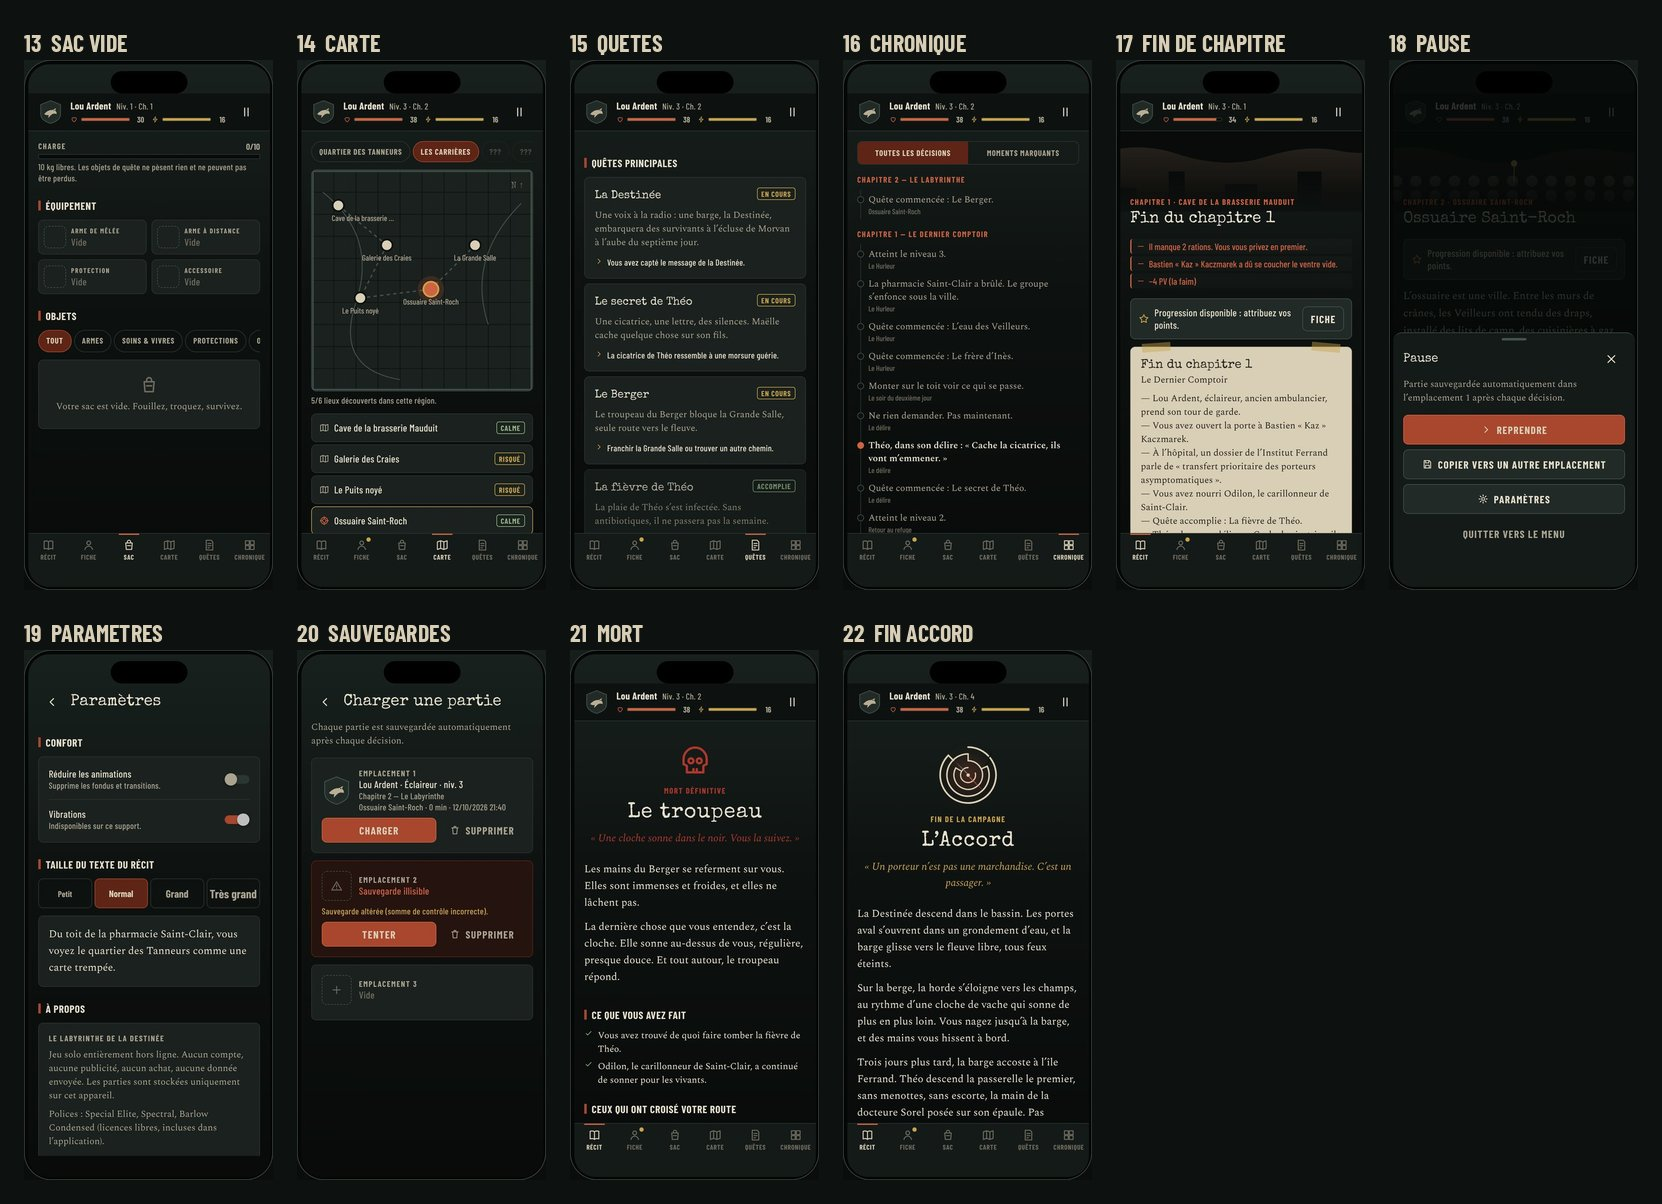
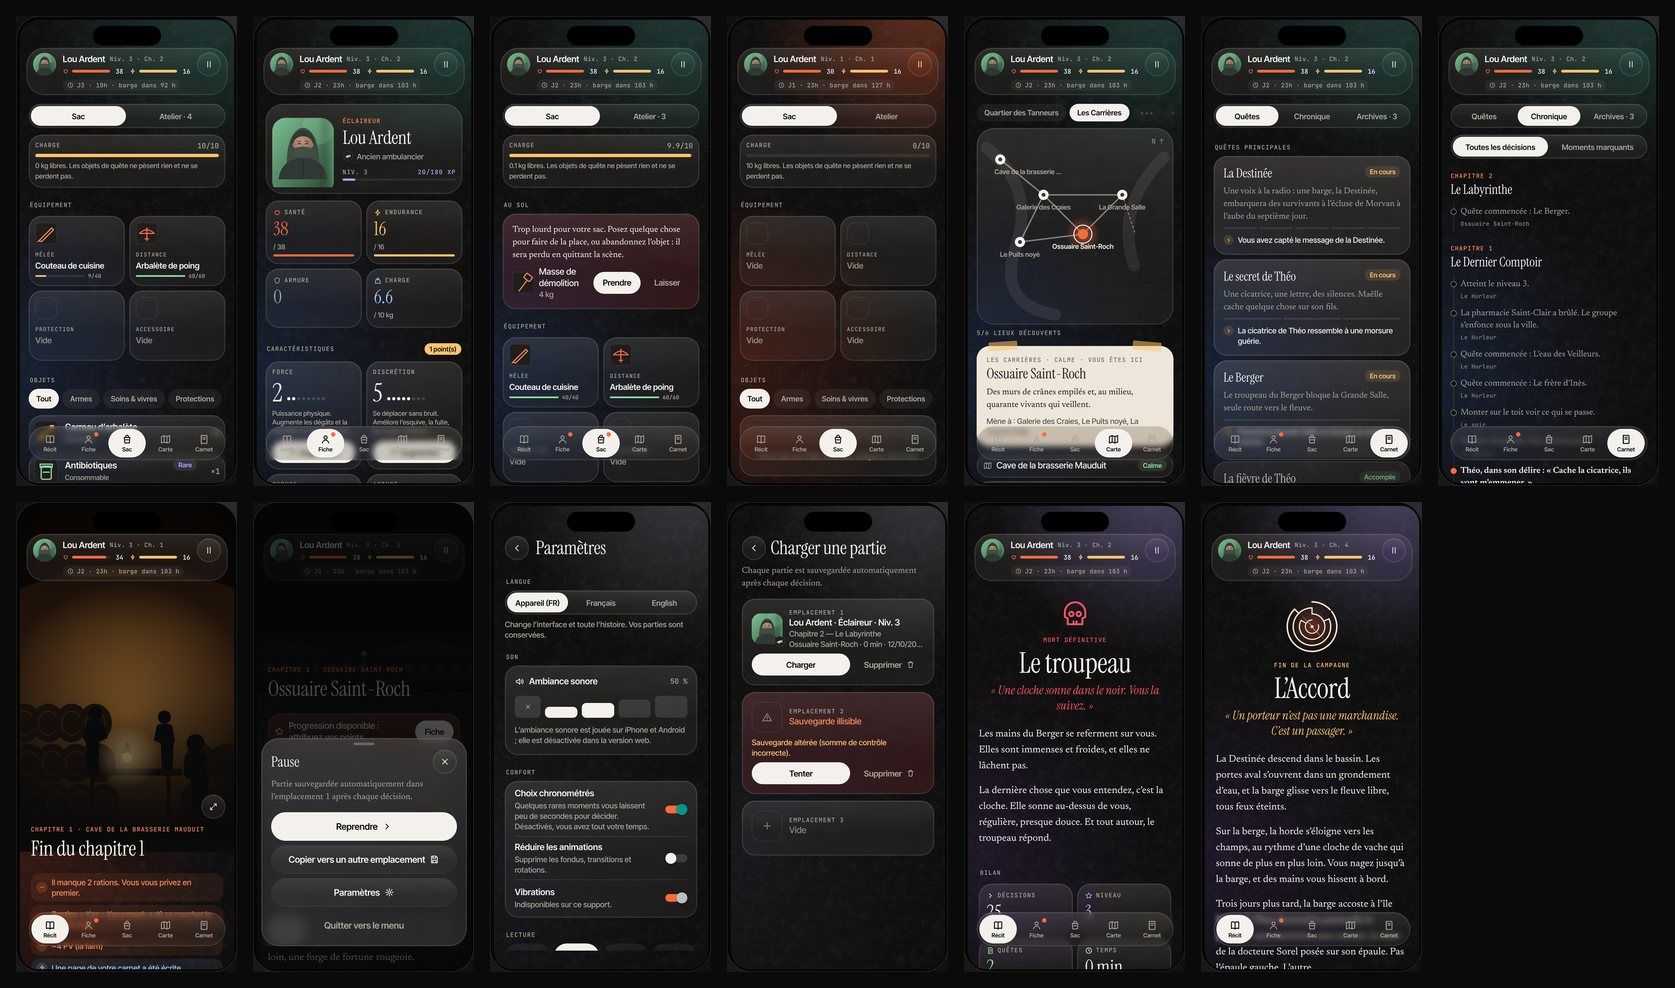
Maquettes régénérées (27, dont versions anglaises), README à jour, expo-asset
Claude-Session: https://claude.ai/code/session_01KTsF7WzWyCV5BcBCv3akYP

diff --git a/README.md b/README.md
@@ -1,14 +1,14 @@
 # Le Labyrinthe de la Destinée
 
-Jeu mobile narratif solo de survie horrifique post-apocalyptique, en français, pour iPhone (React Native + Expo SDK 57).
-Entièrement hors ligne : aucun compte, serveur, publicité, achat intégré ni télémétrie.
+Jeu mobile narratif solo de survie horrifique post-apocalyptique, **en français et en anglais**, pour iPhone
+(React Native + Expo SDK 57). Entièrement hors ligne : aucun compte, serveur, publicité, achat intégré ni télémétrie.
 
 > Valombre, quatorze mois après la Grande Fièvre. Une voix à la radio annonce qu’une barge, la *Destinée*,
 > embarquera des survivants à l’écluse de Morvan à l’aube du septième jour. Pour l’atteindre, il faut traverser
 > le Labyrinthe : les carrières sous la ville, le port des Ferrailleurs… et décider de ce que vaut la vie d’un
 > enfant que tout le monde veut.
 
-![Maquettes](docs/maquettes/06-recit-ouverture.jpg)
+![Maquettes](docs/maquettes-planche-1.jpg)
 
 ## Lancer le jeu
 
@@ -18,31 +18,38 @@ npx expo start            # puis scanner le QR code avec Expo Go sur iPhone
 npx expo start --web      # version navigateur (utile pour prévisualiser)
 ```
 
-Toutes les dépendances natives (AsyncStorage, react-native-svg, expo-linear-gradient, expo-haptics,
-expo-font, safe-area-context) sont incluses dans Expo Go SDK 57 : aucun development build n’est nécessaire.
+Toutes les dépendances natives (AsyncStorage, react-native-svg, expo-linear-gradient, expo-blur, expo-glass-effect,
+expo-audio, expo-localization, expo-haptics, expo-font, safe-area-context) sont incluses dans Expo Go SDK 57 :
+aucun development build n’est nécessaire.
 
 ## Vérifier
 
 | Commande | Rôle |
 | --- | --- |
-| `npm test` | 98 tests Vitest : moteur, combat, inventaire, quêtes, sauvegardes, migrations, corruption, parcours complets |
+| `npm test` | 131 tests Vitest : moteur, combat, inventaire, horloge, atelier, sauvegardes et migrations, parcours complets, traduction anglaise complète, contraste des couleurs |
 | `npm run typecheck` | TypeScript strict |
 | `npx expo lint` | ESLint (configuration Expo, règles React Compiler) |
 | `npm run validate` | Validateur du contenu narratif |
 | `npm run balance [n]` | Lance n parties automatiques par style de jeu et affiche la répartition des fins et des morts |
 | `npm run bench` | Banc d’essai des combats (taux de victoire par profil et par rencontre) |
 | `npx expo-doctor` | Cohérence de la configuration Expo |
+| `python3 scripts/generate-ambience.py` | Régénère les ambiances sonores (synthèse numpy + ffmpeg) |
+
+Une CI GitHub Actions (`.github/workflows/ci.yml`) lance types, lint, tests, validation, équilibrage et export web à chaque push.
 
 ## Contenu livré
 
-- **4 chapitres, 149 scènes, 259 choix, environ 16 000 mots** de narration et de dialogues (tout est écrit et relié ;
+- **4 chapitres, 159 scènes, 290 choix, environ 19 000 mots** de narration et de dialogues (plus 5 000 mots de
+  données du monde : objets, documents, journal…), **intégralement traduits en anglais** (tout est écrit et relié ;
   aucun texte de remplissage). La durée d’une partie dépend des branches suivies : une seule partie ne parcourt qu’une
   partie du texte.
 - **6 fins** (l’Accord, les Capitaines, le Prix du passage, le Gardien de l’écluse, les Racines, le Fleuve) et
   **4 morts définitives** distinctes, chacune avec un épilogue qui dépend des alliés, des quêtes et des décisions.
 - **24 rencontres de combat** dont **6 boss** à phases ou comportements propres (Hurleur, Berger, Gaspard Lenoir,
   capitaine Rousset, Colosse de l’écluse).
-- **11 personnages** récurrents dont 5 compagnons possibles, **20 lieux** sur 4 régions, **10 quêtes**, **39 objets**.
+- **11 personnages** récurrents dont 5 compagnons possibles (épilogues selon la relation), **20 lieux** sur 4 régions
+  reliés par de vrais chemins, **10 quêtes**, **42 objets**, **7 recettes**, **14 documents d’archives**, un **journal
+  intime** écrit à la fin de chaque chapitre selon ce qui a été vécu.
 
 ### Exemples de conséquences différées
 
@@ -75,15 +82,37 @@ expo-font, safe-area-context) sont incluses dans Expo Go SDK 57 : aucun developm
 - **Monde persistant** : carte par région révélée progressivement, notes des changements (refuge incendié, pompe
   réparée, cages ouvertes…), relations et statut des personnages, repas du groupe à chaque fin de chapitre.
 - **Chronique** de toutes les décisions et récapitulatif de fin (moments marquants, alliés, quêtes, bilan).
+- **Horloge des sept jours** : chaque choix coûte du temps ; arriver en retard ferme des portes, très en retard la barge
+  est partie. Le temps restant s’affiche dans le bandeau.
+- **Atelier et usure** : fabrication (pansements, Molotov, carreaux…), solidité des armes, enrayage des armes à feu
+  usées, réparation ; comparaison avec l’équipement porté avant d’équiper.
+- **Seconde compétence** par profil au niveau 4 (Rempart, Disparition, Charge improvisée).
+- **Choix chronométrés** rares, avec choix de repli annoncé ; désactivables, et toujours désactivés avec VoiceOver.
 - **Mort et défaites** : les dégâts narratifs ne tuent jamais par surprise ; seules certaines défaites (boss
   annoncés comme tels, captivité) sont mortelles. Les autres mènent à une blessure, une perte ou une capture.
+
+## Interface (refonte 2026)
+
+- Surfaces de **verre** : Liquid Glass natif sur iOS 26 (`expo-glass-effect`), flou d’arrière-plan ailleurs ;
+  bandeau et barre d’onglets **flottants** en pilule ; halos colorés propres à chaque chapitre ; grain béton/papier.
+- Typographie éditoriale : Instrument Serif (titres), Newsreader (récit), Inter Tight (interface), JetBrains Mono
+  (étiquettes, horloge).
+- **Portraits dessinés** de chaque personnage, **illustrations plein écran** aux moments clés, **transitions de
+  chapitre**, résumé **« Que s’est-il passé ? »** à la reprise, **détail des jets** en touchant le pourcentage.
+- **Accessibilité** : taille de texte iOS respectée (jusqu’à ×1,8 pour le récit), réglage de taille propre au récit,
+  contrastes WCAG vérifiés par un test (≥ 4,5:1), animations réductibles, libellés VoiceOver.
+- **Ambiance sonore** : cinq boucles synthétisées pour le jeu (ville, carrières, port, écluse, combat), volume
+  réglable, respect du mode silencieux, mélange avec la musique de l’utilisateur.
+- **Langues** : français ou anglais, selon l’appareil ou au choix dans les paramètres. Le moteur reçoit le contenu
+  traduit (dictionnaire français → anglais appliqué à tout le contenu, messages du moteur traduits) ; un test vérifie
+  que chaque texte a sa traduction.
 
 ## Sauvegardes
 
 - 3 emplacements ; chaque partie se sauvegarde automatiquement **après chaque décision, action de combat ou
   changement d’inventaire**, et à la mise en arrière-plan.
 - Enveloppe versionnée (`schemaVersion`) avec **somme de contrôle** ; avant d’écraser une sauvegarde valide, elle
-  est copiée en **secours** ; au chargement : vérification, **migration** (v1 → v2 incluse et testée),
+  est copiée en **secours** ; au chargement : vérification, **migration** (v1 → v2 → v3 incluses et testées),
   validation/réparation (objets inconnus retirés, scène disparue → début du chapitre, combat relancé).
 - **File d’écriture** : jamais deux écritures concurrentes, les rafales sont fusionnées.
 - Nouvelle partie dans un emplacement occupé, suppression et copie : **confirmation explicite**. Le RNG est stocké
@@ -91,16 +120,12 @@ expo-font, safe-area-context) sont incluses dans Expo Go SDK 57 : aucun developm
 
 ## Maquettes
 
-L’application contient une **galerie de 22 maquettes** (menu principal → *Maquettes*) : ce sont les vrais écrans,
+L’application contient une **galerie de 27 maquettes** (menu principal → *Maquettes*) : ce sont les vrais écrans,
 rendus dans un cadre iPhone 390 × 844 avec des états produits par le moteur. Exports dans
-[`docs/maquettes/`](docs/maquettes) :
+[`docs/maquettes/`](docs/maquettes) (versions anglaises préfixées `en-`) :
 
-| | | | |
-| --- | --- | --- | --- |
-| ![](docs/maquettes/01-titre.jpg) | ![](docs/maquettes/03-creation-profil.jpg) | ![](docs/maquettes/04-creation-aptitudes.jpg) | ![](docs/maquettes/07-recit-dialogue-verrou.jpg) |
-| ![](docs/maquettes/08-recit-jet.jpg) | ![](docs/maquettes/09-combat.jpg) | ![](docs/maquettes/10-combat-boss.jpg) | ![](docs/maquettes/11-fiche-progression.jpg) |
-| ![](docs/maquettes/12-sac-plein.jpg) | ![](docs/maquettes/14-carte.jpg) | ![](docs/maquettes/16-chronique.jpg) | ![](docs/maquettes/18-pause.jpg) |
-| ![](docs/maquettes/20-sauvegardes.jpg) | ![](docs/maquettes/17-fin-de-chapitre.jpg) | ![](docs/maquettes/21-mort.jpg) | ![](docs/maquettes/22-fin-accord.jpg) |
+![Planche 1](docs/maquettes-planche-1.jpg)
+![Planche 2](docs/maquettes-planche-2.jpg)
 
 ## Architecture
 
@@ -130,7 +155,10 @@ src/
     items.ts, enemies.ts, summary.ts, helpers.ts, index.ts
   persistence/               stockage, format, migrations, emplacements
   store/GameStore.tsx        pont moteur ↔ interface, autosauvegarde, paramètres
-  ui/                        design system : thème, icônes, illustrations SVG, composants
+  ui/                        design system : jetons, verre, icônes, portraits, illustrations, composants
+  i18n/                      textes d’interface (fr, en) et choix de la langue
+  audio/                     ambiance sonore (choix de la piste, lecteur)
+  content/en/                traductions anglaises du contenu et des messages du moteur
   screens/                   écrans (titre, création, jeu et ses vues, sauvegardes, paramètres)
   gallery/                   galerie de maquettes et états de démonstration
 tests/                       tests Vitest
@@ -149,16 +177,12 @@ la partie (retour arrière Android géré explicitement : onglet → récit → 
 
 ## Résultats obtenus
 
-- `npm test` : **98/98 tests réussis** (dont 125 parties automatiques complètes sans blocage, les 9 fins non
-  génériques atteintes avec le vrai moteur, et 4 parcours scénarisés : Accord, Prix du passage, Kaz Ferrailleur,
-  Racines).
-- `npm run validate` : 149 scènes, 259 choix, **0 erreur, 0 avertissement**.
+- `npm test` : **131/131 tests réussis** (dont des parties automatiques complètes en français et en anglais).
+- `npm run validate` : 159 scènes, 290 choix, 10 fins, **0 erreur, 0 avertissement**.
 - `npm run typecheck`, `npx expo lint`, `npx expo-doctor` (21/21) : **aucun problème**.
-- Export web (`npx expo export --platform web`) puis parcours automatisé dans Chromium au format iPhone :
-  création d’un personnage, choix, combat, consultation des onglets, **rechargement de la page et reprise à la même
-  scène** : aucune erreur console. Les 22 maquettes se rendent sans erreur.
-- Banc de combat : selon la préparation, un joueur « compétent » gagne 60 à 95 % des combats de boss avec chacun des
-  trois profils (voir `npm run bench`).
+- Export web puis parcours automatisé dans Chromium au format iPhone : création, choix, combat, onglets,
+  **rechargement et reprise** avec résumé : aucune erreur console. Les 27 maquettes se rendent sans erreur, en
+  français et en anglais.
 
 ## Limites connues
 
@@ -166,5 +190,9 @@ la partie (retour arrière Android géré explicitement : onglet → récit → 
   visuelle a été faite sur le build web au format iPhone. Un essai sur appareil via Expo Go reste à faire
   (haptique et rendu natif des polices en particulier).
 - L’équilibrage repose sur des joueurs automatiques ; il mérite des sessions de jeu humaines.
-- Aucun son n’est intégré : il n’y a donc pas de réglage audio.
+- L’ambiance sonore est désactivée dans la version web (codec AAC et lecture automatique non garantis par les
+  navigateurs) ; elle est jouée sur iOS et Android.
+- Changer de langue en cours de partie traduit tout le contenu, mais l’historique déjà écrit (chronique, notes)
+  reste dans la langue où il a été vécu.
+- Le Liquid Glass natif n’apparaît que sur iOS 26 ; en dessous, le verre est rendu par un flou classique.
 - Le fichier `LICENSE` est celui du modèle `create-expo-app` ; à remplacer selon la licence souhaitée pour le jeu.
